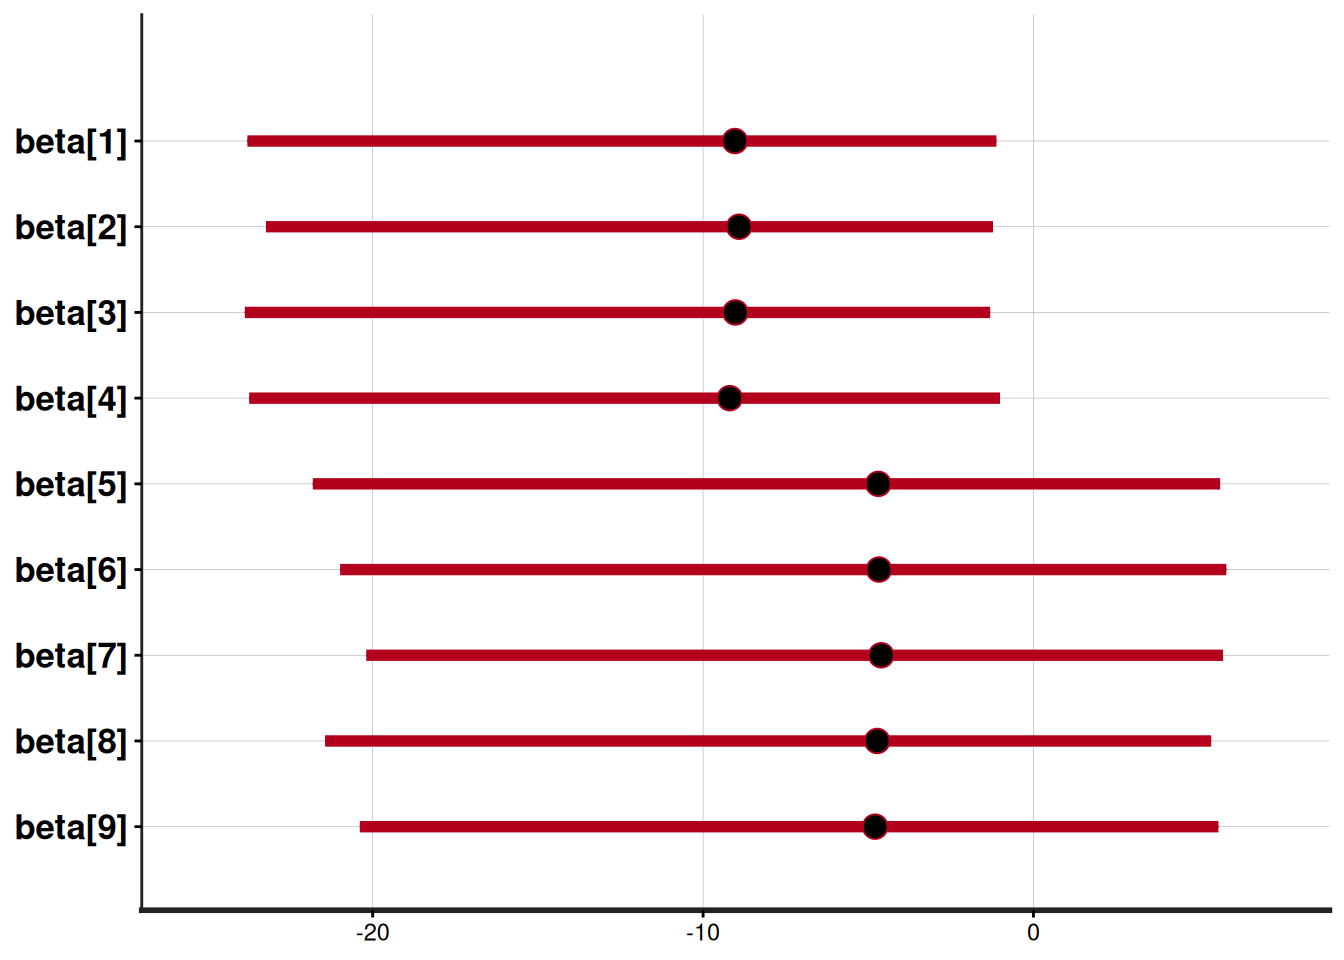
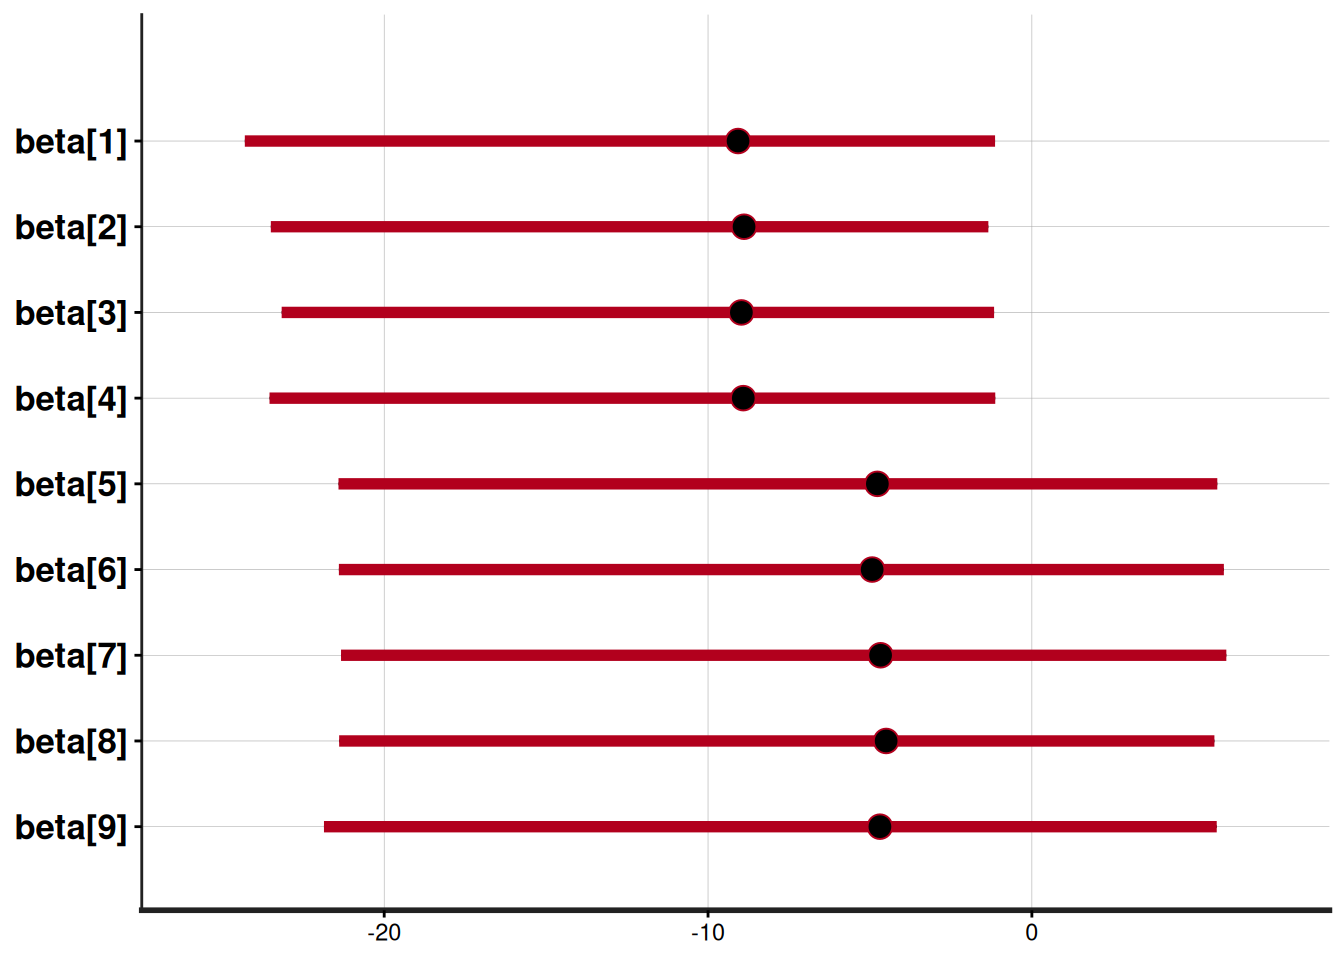
Built site for gh-pages

diff --git a/models.html b/models.html
@@ -769,25 +769,25 @@ $lp__
 <span id="cb21-20"><a href="#cb21-20" aria-hidden="true" tabindex="-1"></a><span class="fu">lapply</span>(resumo, head)</span></code></pre></div><button title="Copiar para a área de transferência" class="code-copy-button"><i class="bi"></i></button></div>
 <div class="cell-output cell-output-stdout">
 <pre><code>$alpha
-         media   mediana   hpd_min  hpd_max
-[1,] 0.3104871 0.3073925 0.2152093 0.412814
+         media   mediana   hpd_min   hpd_max
+[1,] 0.3116998 0.3079673 0.2198055 0.4178438
 
 $sigma
-        media  mediana  hpd_min  hpd_max
-[1,] 199.8429 196.9646 80.24202 302.6092
+       media mediana  hpd_min hpd_max
+[1,] 199.681 194.962 99.56241 311.716
 
 $S
          media   mediana   hpd_min   hpd_max
 [1,] 1.0000000 1.0000000 1.0000000 1.0000000
-[2,] 0.5796002 0.5775700 0.4720483 0.6915795
-[3,] 0.5098034 0.5072393 0.4132475 0.6093827
-[4,] 0.4663230 0.4639901 0.3813128 0.5598325
-[5,] 0.4345574 0.4323244 0.3523019 0.5173741
-[6,] 0.4095299 0.4074572 0.3352954 0.4885740
+[2,] 0.5803141 0.5780728 0.4828406 0.6967235
+[3,] 0.5102409 0.5071832 0.4181244 0.6092008
+[4,] 0.4665817 0.4633880 0.3869512 0.5594391
+[5,] 0.4346847 0.4317705 0.3610632 0.5191871
+[6,] 0.4095540 0.4067515 0.3435544 0.4904559
 
 $lp__
          media   mediana   hpd_min   hpd_max
-[1,] -465.8403 -465.5086 -467.9799 -464.8247</code></pre>
+[1,] -465.8149 -465.5333 -467.7637 -464.8248</code></pre>
 </div>
 </div>
 <div class="cell">
@@ -843,6 +843,175 @@ $lp__
 </section>
 <section id="análise-fatorial" class="level2" data-number="3.3">
 <h2 data-number="3.3" class="anchored" data-anchor-id="análise-fatorial"><span class="header-section-number">3.3</span> Análise fatorial</h2>
+<div class="cell">
+<details class="code-fold">
+<summary>Como obter os dados de chuva</summary>
+<div class="code-copy-outer-scaffold"><div class="sourceCode cell-code" id="cb24"><pre class="sourceCode r code-with-copy"><code class="sourceCode r"><span id="cb24-1"><a href="#cb24-1" aria-hidden="true" tabindex="-1"></a>pak<span class="sc">::</span><span class="fu">pak</span>(<span class="st">"carlosdemoura/meteobr"</span>)</span>
+<span id="cb24-2"><a href="#cb24-2" aria-hidden="true" tabindex="-1"></a><span class="fu">library</span>(meteobr)</span>
+<span id="cb24-3"><a href="#cb24-3" aria-hidden="true" tabindex="-1"></a><span class="fu">library</span>(tidyverse)</span>
+<span id="cb24-4"><a href="#cb24-4" aria-hidden="true" tabindex="-1"></a></span>
+<span id="cb24-5"><a href="#cb24-5" aria-hidden="true" tabindex="-1"></a>st <span class="ot">=</span> stations <span class="sc">|&gt;</span> <span class="fu">filter</span>(state <span class="sc">==</span> <span class="st">"Minas Gerais"</span>) <span class="sc">|&gt;</span> <span class="fu">pull</span>(station.id)</span>
+<span id="cb24-6"><a href="#cb24-6" aria-hidden="true" tabindex="-1"></a>ibge <span class="ot">=</span></span>
+<span id="cb24-7"><a href="#cb24-7" aria-hidden="true" tabindex="-1"></a>  readxl<span class="sc">::</span><span class="fu">read_xls</span>(<span class="st">"~/Downloads/DTB_2024(1)/RELATORIO_DTB_BRASIL_2024_MUNICIPIOS.xls"</span>, <span class="at">skip=</span><span class="dv">6</span>) <span class="sc">|&gt;</span></span>
+<span id="cb24-8"><a href="#cb24-8" aria-hidden="true" tabindex="-1"></a>  <span class="fu">select</span>(<span class="st">`</span><span class="at">Código Município Completo</span><span class="st">`</span>, <span class="st">`</span><span class="at">Região Geográfica Intermediária</span><span class="st">`</span>) <span class="sc">|&gt;</span></span>
+<span id="cb24-9"><a href="#cb24-9" aria-hidden="true" tabindex="-1"></a>  <span class="st">`</span><span class="at">colnames&lt;-</span><span class="st">`</span>(<span class="fu">c</span>(<span class="st">"town.id"</span>, <span class="st">"regiao"</span>))</span>
+<span id="cb24-10"><a href="#cb24-10" aria-hidden="true" tabindex="-1"></a>df <span class="ot">=</span></span>
+<span id="cb24-11"><a href="#cb24-11" aria-hidden="true" tabindex="-1"></a>  <span class="fu">get_data</span>(<span class="at">first.day =</span> <span class="st">"2025-01-01"</span>, <span class="at">last.day =</span> <span class="st">"2025-12-31"</span>, <span class="at">stations =</span> st, <span class="at">vars =</span> <span class="st">"temperature_air"</span>) <span class="sc">|&gt;</span></span>
+<span id="cb24-12"><a href="#cb24-12" aria-hidden="true" tabindex="-1"></a>  <span class="fu">filter</span>(station <span class="sc">%in%</span> st) <span class="sc">|&gt;</span></span>
+<span id="cb24-13"><a href="#cb24-13" aria-hidden="true" tabindex="-1"></a>  <span class="fu">mutate</span>(</span>
+<span id="cb24-14"><a href="#cb24-14" aria-hidden="true" tabindex="-1"></a>    <span class="at">time =</span> <span class="fu">substr</span>(time,<span class="dv">1</span>,<span class="dv">7</span>)</span>
+<span id="cb24-15"><a href="#cb24-15" aria-hidden="true" tabindex="-1"></a>  ) <span class="sc">|&gt;</span></span>
+<span id="cb24-16"><a href="#cb24-16" aria-hidden="true" tabindex="-1"></a>  <span class="fu">group_by</span>(station, time) <span class="sc">|&gt;</span></span>
+<span id="cb24-17"><a href="#cb24-17" aria-hidden="true" tabindex="-1"></a>  <span class="fu">summarise</span>(</span>
+<span id="cb24-18"><a href="#cb24-18" aria-hidden="true" tabindex="-1"></a>    <span class="at">temp =</span> <span class="fu">mean</span>(temperature_air, <span class="at">na.rm =</span> T),</span>
+<span id="cb24-19"><a href="#cb24-19" aria-hidden="true" tabindex="-1"></a>    <span class="at">.groups =</span> <span class="st">"drop"</span></span>
+<span id="cb24-20"><a href="#cb24-20" aria-hidden="true" tabindex="-1"></a>  ) <span class="sc">|&gt;</span></span>
+<span id="cb24-21"><a href="#cb24-21" aria-hidden="true" tabindex="-1"></a>  <span class="fu">rename</span>(<span class="at">mes =</span> <span class="st">"time"</span>, <span class="at">estacao =</span> <span class="st">"station"</span>)</span>
+<span id="cb24-22"><a href="#cb24-22" aria-hidden="true" tabindex="-1"></a></span>
+<span id="cb24-23"><a href="#cb24-23" aria-hidden="true" tabindex="-1"></a>st_w_na <span class="ot">=</span></span>
+<span id="cb24-24"><a href="#cb24-24" aria-hidden="true" tabindex="-1"></a>  df <span class="sc">|&gt;</span></span>
+<span id="cb24-25"><a href="#cb24-25" aria-hidden="true" tabindex="-1"></a>  <span class="fu">filter</span>(<span class="fu">is.na</span>(temp)) <span class="sc">|&gt;</span></span>
+<span id="cb24-26"><a href="#cb24-26" aria-hidden="true" tabindex="-1"></a>  <span class="fu">pull</span>(estacao) <span class="sc">|&gt;</span></span>
+<span id="cb24-27"><a href="#cb24-27" aria-hidden="true" tabindex="-1"></a>  <span class="fu">unique</span>()</span>
+<span id="cb24-28"><a href="#cb24-28" aria-hidden="true" tabindex="-1"></a></span>
+<span id="cb24-29"><a href="#cb24-29" aria-hidden="true" tabindex="-1"></a>df_wo_na <span class="ot">=</span> </span>
+<span id="cb24-30"><a href="#cb24-30" aria-hidden="true" tabindex="-1"></a>  df <span class="sc">|&gt;</span></span>
+<span id="cb24-31"><a href="#cb24-31" aria-hidden="true" tabindex="-1"></a>  <span class="fu">filter</span>(<span class="sc">!</span>estacao <span class="sc">%in%</span> st_w_na) <span class="sc">|&gt;</span></span>
+<span id="cb24-32"><a href="#cb24-32" aria-hidden="true" tabindex="-1"></a>  <span class="fu">left_join</span>(<span class="fu">select</span>(stations,<span class="st">"station.id"</span>, <span class="st">"town.id"</span>), <span class="at">by =</span> <span class="fu">c</span>(<span class="st">"estacao"</span> <span class="ot">=</span> <span class="st">"station.id"</span>)) <span class="sc">|&gt;</span></span>
+<span id="cb24-33"><a href="#cb24-33" aria-hidden="true" tabindex="-1"></a>  <span class="fu">left_join</span>(ibge, <span class="at">by =</span> <span class="st">"town.id"</span>) <span class="sc">|&gt;</span></span>
+<span id="cb24-34"><a href="#cb24-34" aria-hidden="true" tabindex="-1"></a>  <span class="fu">mutate</span>(</span>
+<span id="cb24-35"><a href="#cb24-35" aria-hidden="true" tabindex="-1"></a>    <span class="at">regiao =</span> <span class="fu">case_when</span>(</span>
+<span id="cb24-36"><a href="#cb24-36" aria-hidden="true" tabindex="-1"></a>      regiao <span class="sc">%in%</span> <span class="fu">c</span>(<span class="st">"3102"</span>, <span class="st">"3103"</span>, <span class="st">"3104"</span>, <span class="st">"3112"</span>) <span class="sc">~</span> <span class="st">"NORTE"</span>,</span>
+<span id="cb24-37"><a href="#cb24-37" aria-hidden="true" tabindex="-1"></a>      regiao <span class="sc">%in%</span> <span class="fu">c</span>(<span class="st">"3110"</span>, <span class="st">"3111"</span>) <span class="sc">~</span> <span class="st">"TRIANGULO"</span>,</span>
+<span id="cb24-38"><a href="#cb24-38" aria-hidden="true" tabindex="-1"></a>      <span class="cn">TRUE</span> <span class="sc">~</span> <span class="st">"SUL"</span></span>
+<span id="cb24-39"><a href="#cb24-39" aria-hidden="true" tabindex="-1"></a>    )</span>
+<span id="cb24-40"><a href="#cb24-40" aria-hidden="true" tabindex="-1"></a>  ) <span class="sc">|&gt;</span></span>
+<span id="cb24-41"><a href="#cb24-41" aria-hidden="true" tabindex="-1"></a>  <span class="fu">select</span>(<span class="sc">-</span>town.id) <span class="sc">|&gt;</span></span>
+<span id="cb24-42"><a href="#cb24-42" aria-hidden="true" tabindex="-1"></a>  <span class="fu">pivot_wider</span>(<span class="at">values_from =</span> <span class="st">"temp"</span>, <span class="at">names_from =</span> <span class="st">"mes"</span>) <span class="sc">|&gt;</span></span>
+<span id="cb24-43"><a href="#cb24-43" aria-hidden="true" tabindex="-1"></a>  <span class="fu">relocate</span>(regiao) <span class="sc">|&gt;</span></span>
+<span id="cb24-44"><a href="#cb24-44" aria-hidden="true" tabindex="-1"></a>  <span class="fu">arrange</span>(regiao, estacao)</span>
+<span id="cb24-45"><a href="#cb24-45" aria-hidden="true" tabindex="-1"></a></span>
+<span id="cb24-46"><a href="#cb24-46" aria-hidden="true" tabindex="-1"></a><span class="fu">write.csv</span>(df_wo_na, <span class="st">"stuff/meteo.csv"</span>, <span class="at">row.names =</span> F)</span></code></pre></div><button title="Copiar para a área de transferência" class="code-copy-button"><i class="bi"></i></button></div>
+</details>
+</div>
+<div class="cell">
+<div class="code-copy-outer-scaffold"><div class="sourceCode cell-code" id="cb25"><pre class="sourceCode r code-with-copy"><code class="sourceCode r"><span id="cb25-1"><a href="#cb25-1" aria-hidden="true" tabindex="-1"></a>temperatura <span class="ot">=</span> <span class="fu">read.csv</span>(<span class="fu">url</span>(<span class="st">"https://raw.githubusercontent.com/carlosdemoura/2026_aula_stan_dani/refs/heads/main/stuff/temperatura.csv"</span>))</span></code></pre></div><button title="Copiar para a área de transferência" class="code-copy-button"><i class="bi"></i></button></div>
+</div>
+<div class="cell">
+<div class="cell-output-display">
+<table class="caption-top table table-sm table-striped small">
+<thead>
+<tr class="header">
+<th style="text-align: left;">estacao</th>
+<th style="text-align: right;">X2025.01</th>
+<th style="text-align: right;">X2025.02</th>
+<th style="text-align: right;">X2025.03</th>
+<th style="text-align: right;">X2025.04</th>
+<th style="text-align: right;">X2025.05</th>
+<th style="text-align: right;">X2025.06</th>
+</tr>
+</thead>
+<tbody>
+<tr class="odd">
+<td style="text-align: left;">A502</td>
+<td style="text-align: right;">20.84</td>
+<td style="text-align: right;">21.89</td>
+<td style="text-align: right;">20.42</td>
+<td style="text-align: right;">18.66</td>
+<td style="text-align: right;">16.57</td>
+<td style="text-align: right;">16.00</td>
+</tr>
+<tr class="even">
+<td style="text-align: left;">A506</td>
+<td style="text-align: right;">24.82</td>
+<td style="text-align: right;">25.43</td>
+<td style="text-align: right;">26.03</td>
+<td style="text-align: right;">25.05</td>
+<td style="text-align: right;">22.27</td>
+<td style="text-align: right;">21.28</td>
+</tr>
+<tr class="odd">
+<td style="text-align: left;">A507</td>
+<td style="text-align: right;">24.24</td>
+<td style="text-align: right;">24.99</td>
+<td style="text-align: right;">25.52</td>
+<td style="text-align: right;">23.88</td>
+<td style="text-align: right;">21.69</td>
+<td style="text-align: right;">20.99</td>
+</tr>
+<tr class="even">
+<td style="text-align: left;">A508</td>
+<td style="text-align: right;">28.10</td>
+<td style="text-align: right;">28.23</td>
+<td style="text-align: right;">27.83</td>
+<td style="text-align: right;">27.88</td>
+<td style="text-align: right;">24.98</td>
+<td style="text-align: right;">23.56</td>
+</tr>
+<tr class="odd">
+<td style="text-align: left;">A509</td>
+<td style="text-align: right;">18.16</td>
+<td style="text-align: right;">18.79</td>
+<td style="text-align: right;">18.15</td>
+<td style="text-align: right;">15.96</td>
+<td style="text-align: right;">13.56</td>
+<td style="text-align: right;">11.89</td>
+</tr>
+<tr class="even">
+<td style="text-align: left;">A510</td>
+<td style="text-align: right;">23.15</td>
+<td style="text-align: right;">23.23</td>
+<td style="text-align: right;">22.87</td>
+<td style="text-align: right;">21.07</td>
+<td style="text-align: right;">18.57</td>
+<td style="text-align: right;">17.21</td>
+</tr>
+<tr class="odd">
+<td style="text-align: left;">A511</td>
+<td style="text-align: right;">24.02</td>
+<td style="text-align: right;">25.49</td>
+<td style="text-align: right;">24.77</td>
+<td style="text-align: right;">22.91</td>
+<td style="text-align: right;">20.65</td>
+<td style="text-align: right;">19.75</td>
+</tr>
+<tr class="even">
+<td style="text-align: left;">A512</td>
+<td style="text-align: right;">25.36</td>
+<td style="text-align: right;">25.34</td>
+<td style="text-align: right;">25.98</td>
+<td style="text-align: right;">24.19</td>
+<td style="text-align: right;">21.51</td>
+<td style="text-align: right;">20.83</td>
+</tr>
+<tr class="odd">
+<td style="text-align: left;">A513</td>
+<td style="text-align: right;">21.84</td>
+<td style="text-align: right;">22.77</td>
+<td style="text-align: right;">21.47</td>
+<td style="text-align: right;">19.79</td>
+<td style="text-align: right;">17.68</td>
+<td style="text-align: right;">17.29</td>
+</tr>
+<tr class="even">
+<td style="text-align: left;">A514</td>
+<td style="text-align: right;">22.30</td>
+<td style="text-align: right;">23.27</td>
+<td style="text-align: right;">22.33</td>
+<td style="text-align: right;">20.43</td>
+<td style="text-align: right;">17.56</td>
+<td style="text-align: right;">16.53</td>
+</tr>
+</tbody>
+</table>
+</div>
+</div>
+<div class="quarto-figure quarto-figure-center">
+<figure class="figure">
+<p><img src="https://upload.wikimedia.org/wikipedia/commons/8/8e/Regi%C3%B5es_Geogr%C3%A1ficas_Intermedi%C3%A1rias_e_Regi%C3%B5es_Geogr%C3%A1ficas_Imediatas_do_estado_de_Minas_Gerais%2C_Brasil.png" class="img-fluid figure-img" style="width:50.0%"></p>
+<figcaption>Regiões de MG</figcaption>
+</figure>
+</div>
 
 
 <div id="refs" class="references csl-bib-body hanging-indent" data-entry-spacing="0" role="list" style="display: none">
